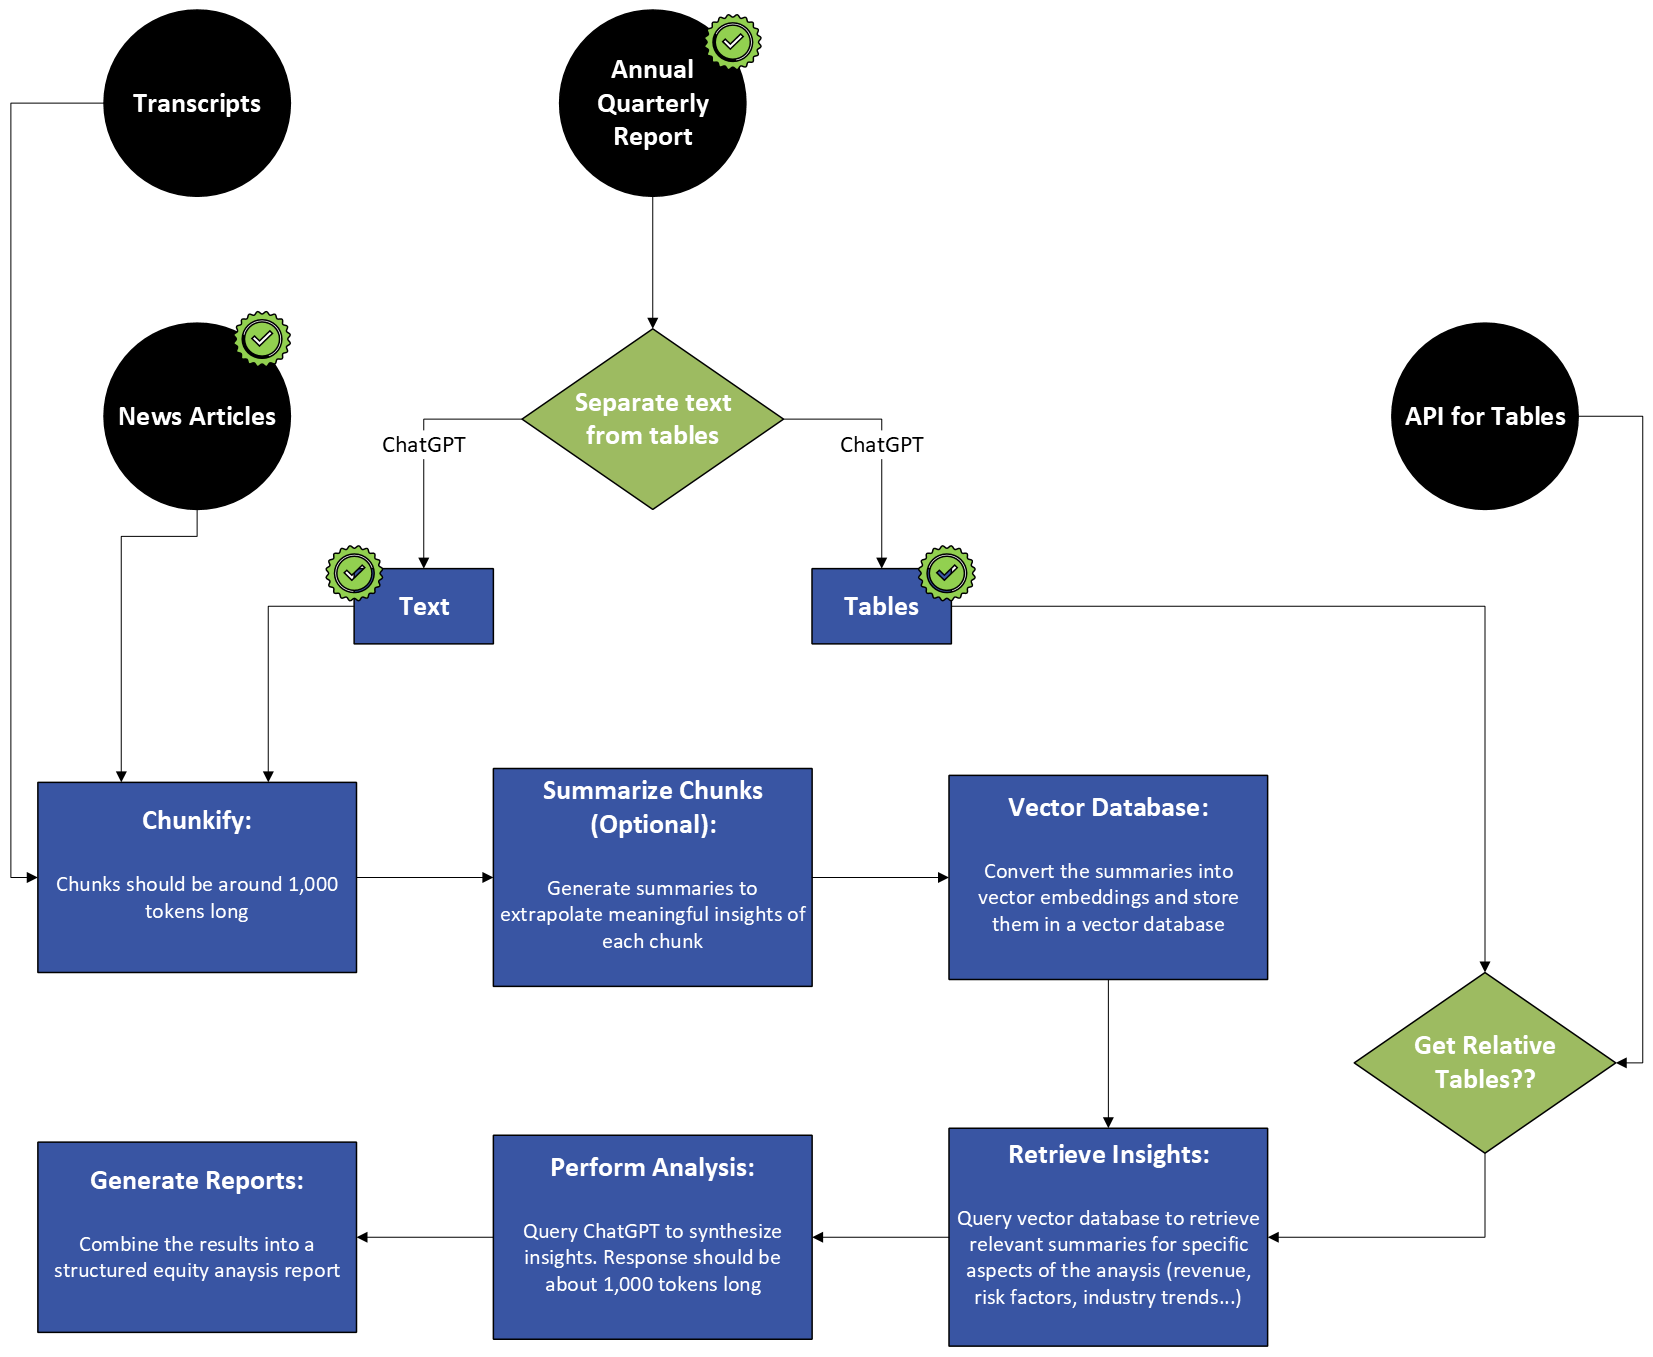
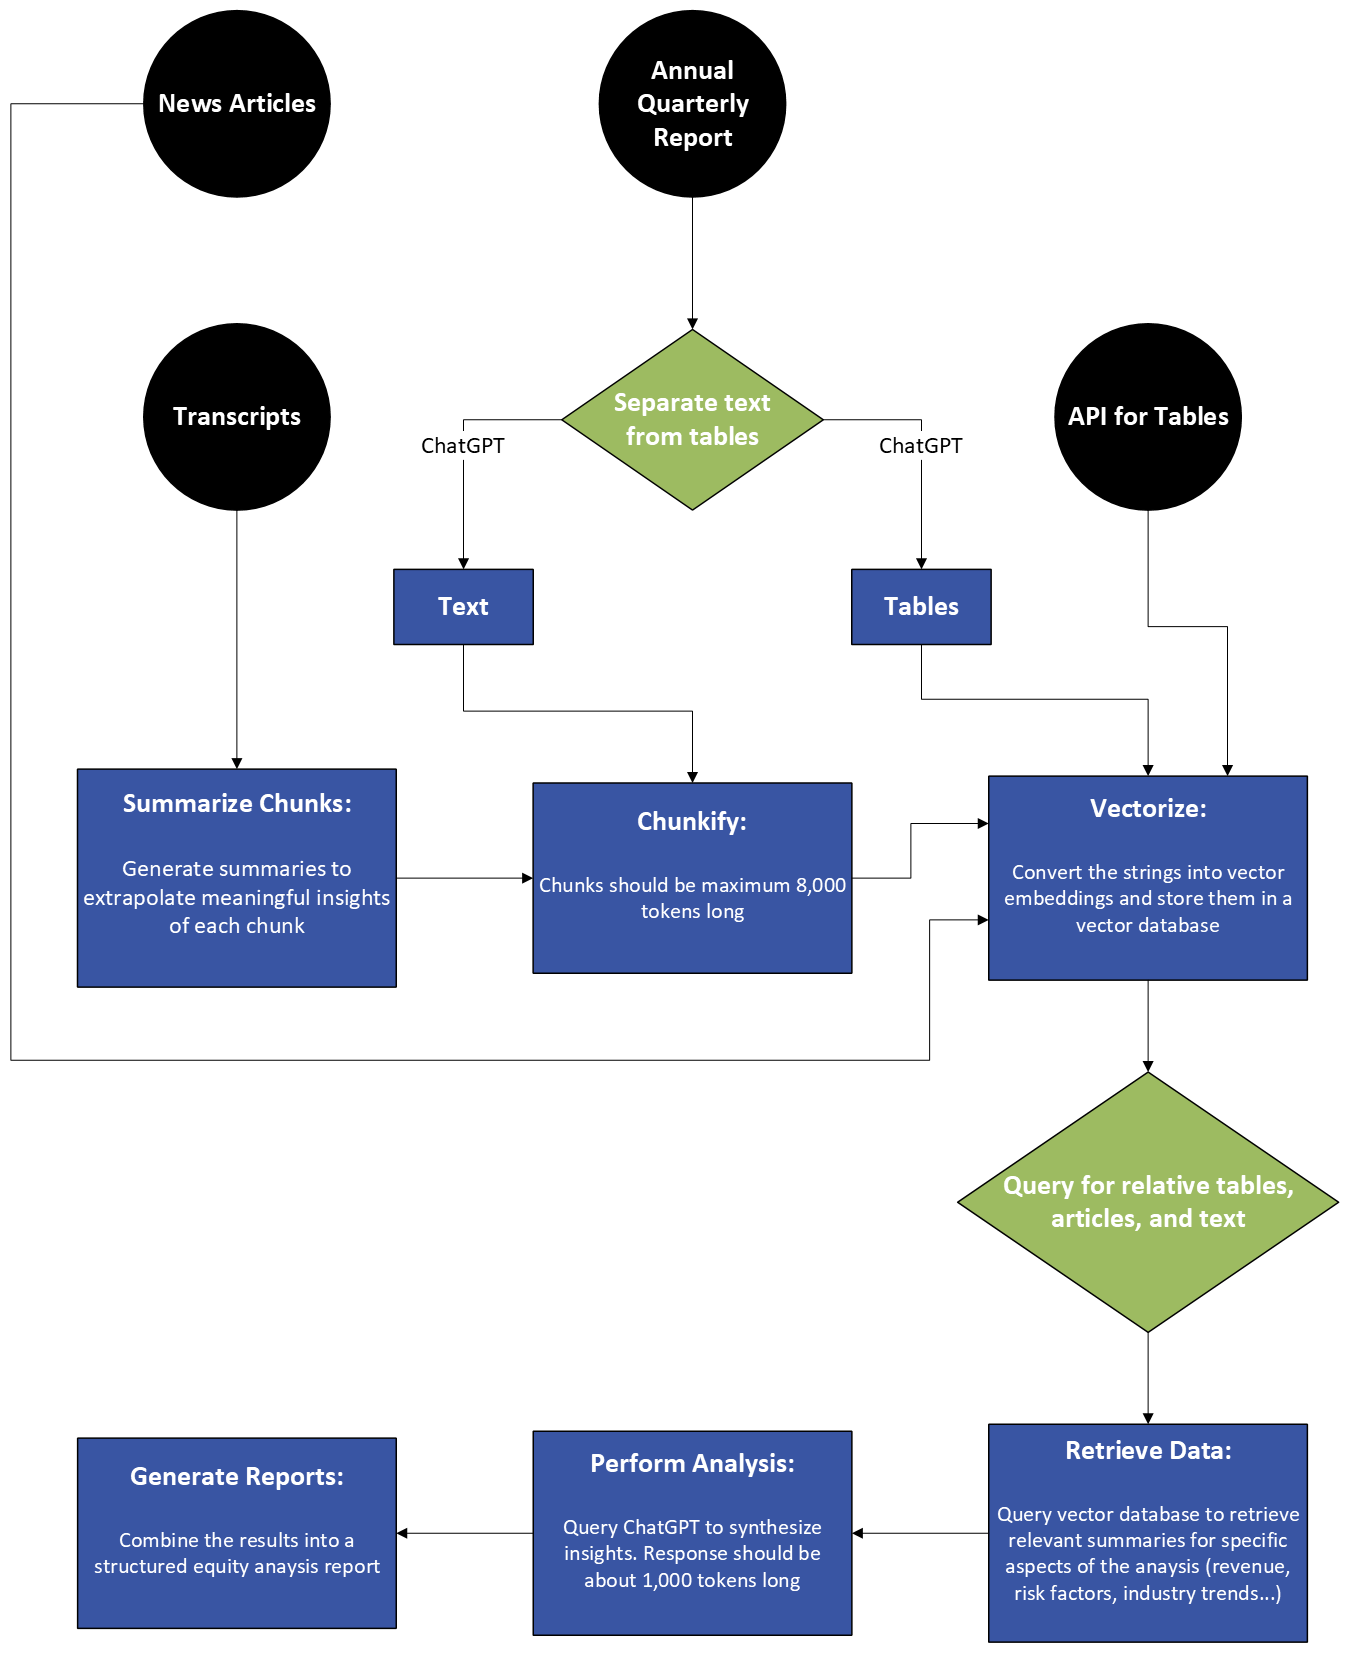
Chunkify text

diff --git a/agents.py b/agents.py
@@ -30,6 +30,7 @@ tables_extraction_agent = Agent(
       - **Table Name:** A meaningful title if available, otherwise a placeholder like 'Table {number}'.
       - **Columns:** Column headers as they appear in the table.
       - **Rows:** Each row of the table as a list of strings.
+    2. **Take your time** to really inspect the text and make sure you extract all tables.
     2. **Double check** your work afterwards to ensure you captured all tables
 
     Ensure that no tabular information is lost, and tables are extracted clearly and accurately."""
@@ -44,4 +45,101 @@ text_extraction_agent = Agent(
     - Extract **all non-tabular text exactly as it appears** in the input, preserving formatting and structure.
     - Do not include any tabular data in this extraction.
     - Do not analyze, interpret, or summarize the text."""
+)
+
+profitability_agent = Agent(
+    name="Profitability Metrics Agent",
+    role="You are an expert financial analysis agent specializing in evaluating profitability metrics to assess a company's financial health and efficiency.",
+    function="Your function is to analyze the provided chunk of text or data related to profitability metrics, such as return on assets (ROA), operating margins, and net income. Deliver a concise summary focusing on the company's profitability trends, how they compare to industry benchmarks, and the implications for future growth and stability. Ensure the analysis supports equity evaluation, avoids unrelated details, and does not exceed 150 words."
+)
+
+leverage_agent = Agent(
+    name="Leverage Metrics Agent",
+    role="You are an expert financial analysis agent specializing in evaluating leverage metrics to assess a company's debt and financial stability.",
+    function="Your function is to analyze the provided chunk of text or data related to leverage metrics, such as debt-to-equity ratios and interest coverage. Deliver a concise summary focusing on the company's debt levels, ability to manage obligations, and risks associated with its capital structure. Ensure the analysis supports equity evaluation, avoids unrelated details, and does not exceed 150 words."
+)
+
+liquidity_agent = Agent(
+    name="Liquidity Metrics Agent",
+    role="You are an expert financial analysis agent specializing in evaluating liquidity metrics to assess a company's short-term financial health.",
+    function="Your function is to analyze the provided chunk of text or data related to liquidity metrics, such as current ratio and quick ratio. Deliver a concise summary focusing on the company's ability to meet short-term obligations, cash management efficiency, and implications for operational stability. Ensure the analysis supports equity evaluation, avoids unrelated details, and does not exceed 150 words."
+)
+
+efficiency_agent = Agent(
+    name="Operational Efficiency Agent",
+    role="You are an expert financial analysis agent specializing in evaluating operational efficiency metrics to assess a company's resource utilization.",
+    function="Your function is to analyze the provided chunk of text or data related to operational efficiency, such as inventory turnover and asset turnover. Deliver a concise summary focusing on the company's efficiency in managing resources and converting investments into revenue. Ensure the analysis supports equity evaluation, avoids unrelated details, and does not exceed 150 words."
+)
+
+earnings_quality_agent = Agent(
+    name="Earnings Quality Agent",
+    role="You are an expert financial analysis agent specializing in evaluating earnings quality to assess the reliability of a company's financial performance.",
+    function="Your function is to analyze the provided chunk of text or data related to earnings quality, such as accrual ratios and cash flow consistency. Deliver a concise summary focusing on the sustainability and reliability of the company's earnings and their impact on valuation. Ensure the analysis supports equity evaluation, avoids unrelated details, and does not exceed 150 words."
+)
+
+growth_agent = Agent(
+    name="Growth Indicators Agent",
+    role="You are an expert financial analysis agent specializing in evaluating growth indicators to assess a company's expansion and market potential.",
+    function="Your function is to analyze the provided chunk of text or data related to growth indicators, such as revenue growth and net income growth. Deliver a concise summary focusing on the company's growth trends, market opportunities, and potential for increasing shareholder value. Ensure the analysis supports equity evaluation, avoids unrelated details, and does not exceed 150 words."
+)
+
+valuation_agent = Agent(
+    name="Valuation Metrics Agent",
+    role="You are an expert financial analysis agent specializing in evaluating valuation metrics to assess a company's market value relative to its fundamentals.",
+    function="Your function is to analyze the provided chunk of text or data related to valuation metrics, such as P/E ratio and EV/EBITDA. Deliver a concise summary focusing on the company's valuation trends, comparison to industry peers, and implications for investment attractiveness. Ensure the analysis supports equity evaluation, avoids unrelated details, and does not exceed 150 words."
+)
+
+dividend_policy_agent = Agent(
+    name="Dividend Policy Agent",
+    role="You are an expert financial analysis agent specializing in evaluating dividend policies to assess shareholder returns.",
+    function="Your function is to analyze the provided chunk of text or data related to dividend policy, such as dividend payout ratio and yield. Deliver a concise summary focusing on the company's dividend trends, sustainability, and implications for investor sentiment. Ensure the analysis supports equity evaluation, avoids unrelated details, and does not exceed 150 words."
+)
+
+market_sentiment_agent = Agent(
+    name="Market Sentiment Agent",
+    role="You are an expert financial analysis agent specializing in evaluating market sentiment to assess external perceptions of a company's performance.",
+    function="Your function is to analyze the provided chunk of text or data related to market sentiment, such as insider transactions and analyst ratings. Deliver a concise summary focusing on market perceptions, investor confidence, and the implications for the company's stock performance. Ensure the analysis supports equity evaluation, avoids unrelated details, and does not exceed 150 words."
+)
+
+risk_factors_agent = Agent(
+    name="Risk Factors Agent",
+    role="You are an expert financial analysis agent specializing in evaluating risk factors to assess a company's exposure to financial, operational, and market uncertainties.",
+    function="Your function is to analyze the provided chunk of text or data related to risk factors, such as credit ratings and volatility measures. Deliver a concise summary focusing on the company's risk exposure, mitigation strategies, and implications for long-term stability. Ensure the analysis supports equity evaluation, avoids unrelated details, and does not exceed 150 words."
+)
+
+# Extended analysis agents:
+industry_agent = Agent(
+    name="Industry and Competitive Positioning Agent",
+    role="You are an expert financial analysis agent specializing in evaluating a company's performance relative to its industry and competitive landscape.",
+    function="Your function is to analyze the provided chunk of text or data related to industry trends, market share, and competitive positioning. Deliver a concise summary focusing on how the company compares to its peers, competitive advantages, and any industry-specific trends affecting its performance. Ensure the analysis supports equity evaluation, avoids unrelated details, and does not exceed 150 words."
+)
+
+esg_agent = Agent(
+    name="ESG Factors Agent",
+    role="You are an expert financial analysis agent specializing in evaluating environmental, social, and governance factors to assess a company's sustainability and risk mitigation strategies.",
+    function="Your function is to analyze the provided chunk of text or data related to ESG factors, such as carbon footprint, diversity initiatives, and governance quality. Deliver a concise summary focusing on the company's ESG performance, long-term sustainability efforts, and their implications for investor confidence and value. Ensure the analysis supports equity evaluation, avoids unrelated details, and does not exceed 150 words."
+)
+
+innovation_agent = Agent(
+    name="Innovation and R&D Agent",
+    role="You are an expert financial analysis agent specializing in evaluating a company's investment in research and development (R&D) to assess its innovation potential.",
+    function="Your function is to analyze the provided chunk of text or data related to innovation and R&D, such as R&D expenditure and patents. Deliver a concise summary focusing on the company's efforts to innovate, the potential impact on its growth, and competitive advantage. Ensure the analysis supports equity evaluation, avoids unrelated details, and does not exceed 150 words."
+)
+
+macroeconomic_agent = Agent(
+    name="Macroeconomic Context Agent",
+    role="You are an expert financial analysis agent specializing in assessing a company's performance in the context of broader economic conditions.",
+    function="Your function is to analyze the provided chunk of text or data related to macroeconomic factors, such as interest rates, inflation, and geopolitical risks. Deliver a concise summary focusing on how these factors influence the company's financial performance, growth potential, and risk exposure. Ensure the analysis supports equity evaluation, avoids unrelated details, and does not exceed 150 words."
+)
+
+diversification_agent = Agent(
+    name="Customer and Revenue Diversification Agent",
+    role="You are an expert financial analysis agent specializing in assessing the diversification of a company's revenue streams and customer base.",
+    function="Your function is to analyze the provided chunk of text or data related to customer concentration, geographical revenue breakdown, and product diversification. Deliver a concise summary focusing on the company's exposure to concentration risks and its ability to sustain growth through diverse revenue streams. Ensure the analysis supports equity evaluation, avoids unrelated details, and does not exceed 150 words."
+)
+
+management_agent = Agent(
+    name="Management Effectiveness Agent",
+    role="You are an expert financial analysis agent specializing in evaluating the effectiveness of a company's management team.",
+    function="Your function is to analyze the provided chunk of text or data related to management performance, such as return on equity (ROE), strategic decisions, and shareholder returns. Deliver a concise summary focusing on the leadership's ability to execute plans, adapt to challenges, and drive shareholder value. Ensure the analysis supports equity evaluation, avoids unrelated details, and does not exceed 150 words."
 )

diff --git a/app.py b/app.py
@@ -6,6 +6,7 @@ from openai_client import OpenAiClient
 from schemas import ChunkSummaryResponseSchema, PreProcessingResponseSchema, TablesSchema, ExtractedTextSchema
 from vector_manager import VectorManager
 from pdf_manager import PdfManager
+from chunkify_data import chunkify
 
 import json
 import requests
@@ -42,6 +43,9 @@ def main():
     extracted_tables = pdf_manager.extract(client, extracted_pdf, TablesSchema, tables_extraction_agent)
     extracted_text = pdf_manager.extract(client, extracted_pdf, ExtractedTextSchema, text_extraction_agent)
 
+    # Chunkify the text
+    chunkified_text = chunkify(extracted_text.text)
+
     # Format tables for embedding generation
 
     formatted_tables = pdf_manager.format_table_for_embedding(extracted_tables)
@@ -54,13 +58,20 @@ def main():
         logger.error(f"An error occured while sending a request to the DB to receive news articles: {e}")
 
     # Create embeddings
-    text_embeddings = vector_manager.vectorize(client, [extracted_text.text])
+    text_embeddings = vector_manager.vectorize(client, chunkified_text)
     table_embeddings = vector_manager.vectorize(client, formatted_tables)
     article_embeddings = vector_manager.vectorize(client, article_summaries)
 
+    embeddings = {
+        "text_embeddings": [{"chunk": chunk, "embedding": embedding} for chunk, embedding in zip(chunkified_text, text_embeddings)],
+        "table_embeddings": [{"table": table, "embedding": embedding} for table, embedding in zip(formatted_tables, table_embeddings)],
+        "article_embeddings": [{"article": article, "embedding": embedding} for article, embedding in zip(article_summaries, article_embeddings)],
+    }
+
+
     # Dump to JSON file
     with open(article_embedings_path, 'w') as file:
-        json.dump(article_embeddings, file, indent=4)
+        json.dump(embeddings["article_embeddings"], file, indent=4)
 
     with open(extracted_tables_path, 'w') as file:
         json.dump(extracted_tables.dict(), file, indent=4)
@@ -69,14 +80,10 @@ def main():
         json.dump(extracted_text.dict(), file, indent=4)
 
     with open(table_embeddings_path, 'w') as file:
-        json.dump(table_embeddings, file, indent=4)
+        json.dump(embeddings["table_embeddings"], file, indent=4)
 
     with open(text_embeddings_path, 'w') as file:
-        json.dump(text_embeddings, file, indent=4)
-
-
-    """ with open(path, 'w') as file:
-        json.dumps(chunks, file, indent=4) """
+        json.dump(embeddings["text_embeddings"], file, indent=4)
 
 
     """ summarized_chunks = []

diff --git a/chunkify_data.py b/chunkify_data.py
@@ -1,27 +1,32 @@
-import nltk
+import tiktoken
 from loguru import logger
-
-nltk.download('punkt')
 
 
 # Chunkify the document
-def chunkify(text, max_tokens=3000):
-    words = nltk.word_tokenize(text)
+def chunkify(text, max_tokens=8000, overlap=200):
+    logger.info("Chunkifier called")
+    """
+    Splits a long text into chunks that fit within the token limit for OpenAI models.
+    Args:
+        text (str): The input text to chunk.
+        max_tokens (int): Maximum number of tokens per chunk.
+        overlap (int): Number of overlapping tokens between chunks.
+
+    Returns:
+        List[str]: A list of text chunks, each within the token limit.
+    """
+    logger.info("Initialize tokenizer")
+    tokenizer = tiktoken.get_encoding("cl100k_base")  # Initialize tokenizer
+    tokens = tokenizer.encode(text)  # Tokenize the input text
+
     chunks = []
-    current_chunk = []
-    current_chunk_size = 0
-    logger.info("Starting to chunkify")
+    start = 0
+    end = 0
 
-    for word in words:
-        current_chunk.append(word)
-        current_chunk_size += 1
-        if current_chunk_size >= max_tokens:
-            chunks.append(" ".join(current_chunk))
-            current_chunk = []
-            current_chunk_size = 0
-
-    if current_chunk:
-        chunks.append(" ".join(current_chunk))
-
-    logger.info(f"Chunkification completed, number of chunks: {len(chunks)}")
+    while end < len(tokens):
+        end = min(start + max_tokens, len(tokens))
+        chunk = tokens[start:end]
+        chunks.append(tokenizer.decode(chunk))  # Decode tokens back to text
+        start = end - overlap  # Step back for overlap
+        
     return chunks
